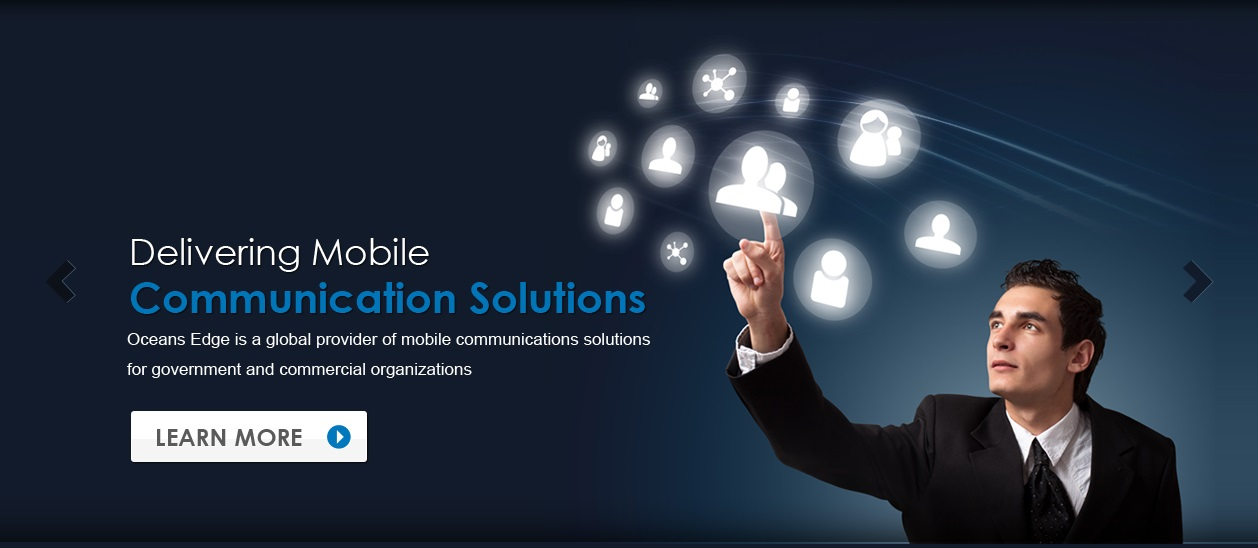
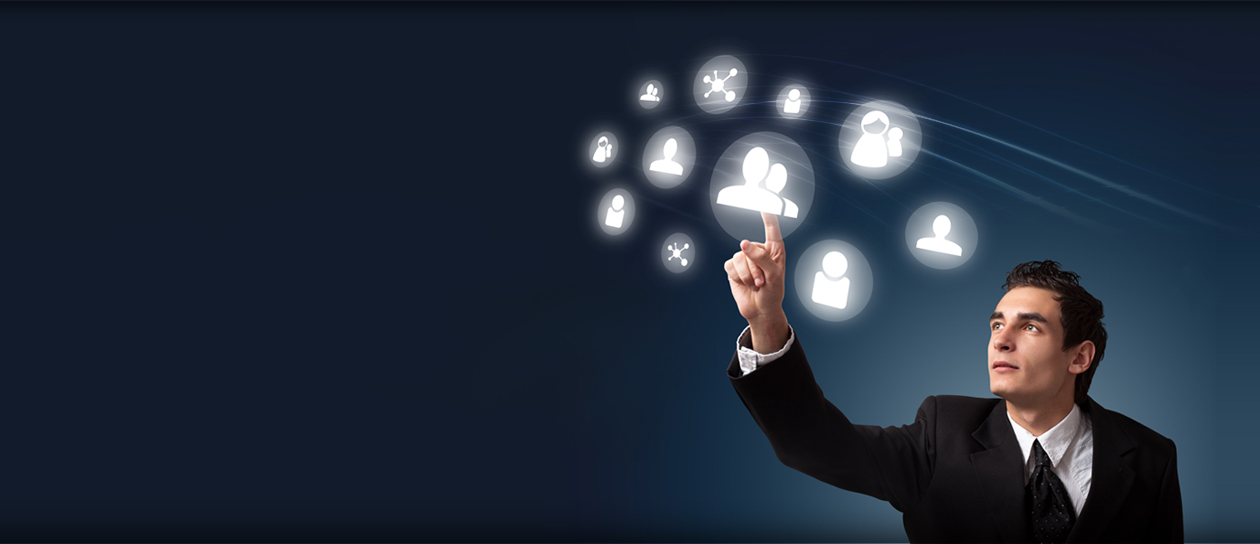
Add files via upload

diff --git a/css/style.css b/css/style.css
@@ -1,31 +1,31 @@
-body{
-	margin:0;
-	padding:0;
-	background-color:#121B2A;
-}
 /*Header start*/
 header{
-	width:95%;
+	background-color:#121B2A;
+}
+.container{
+	width:90%;
 	overflow:hidden;
 	margin:0 auto;
-	padding:10px;
+	padding-top:10px;
+	padding-bottom:10px;
 }
 .logo{
 	width:15%;
 	float:left;
-	margin-left:20px;
+	margin-left:10px;
+	overflow:hidden;
 }
 .logo img{
 	width:100%;
 }
 .menu{
-	width:70%;
+	width:75%;
 	float:right;
 	margin-top:40px;
 }
 .menu ul{
 	overflow:hidden;
-	float:right;
+	float: right;
 }
 .menu ul li{
 	list-style:none;
@@ -45,7 +45,175 @@ header{
 }
 /*header end*/
 /*banner start*/
-.banner img{
-	width:100%;
+.banner{
+	background-image:url(../image/banner.jpg);
+	background-repeat:no-repeat;
+	background-size:cover;
+	overflow:hidden;
+}
+.content{
+	width: 40%;
+	margin: 200px 100px 100px;
+}
+.content h2{
+	font-family:sans-serif;
+	font-size:42px;
+	font-weight:300;
+	color:white;
+	margin:4px 0px;
+}
+.content h3{
+	font-family:sans-serif;
+	font-size:42px;
+	color:#0177BD;
+	margin:5px 0px;
+}
+.content p{
+	font-family:sans-serif;
+	color:white;
+	margin:5px 0px;
+}
+.content button{
+	font-family:sans-serif;
+	font-size:20px;
+	color:#5A5A5A;
+	background-color:white;
+	width:240px;
+	height:45px;
+	margin:30px 0px;
+	border-style: none;
+	border-radius:3px;
+	display:inline-block;
+	cursor:pointer;
+}
+.content button span{
+	background-color:#0177BD;
+	padding:5px;
+	border-radius:50%;
+	color:white;
+	margin-left:10px;
 }
 /*banner end*/
+/*service start*/
+.service{
+	background-color:#121B2C;
+}
+.wrapper{
+	width:80%;
+	margin:0 auto;
+	overflow:hidden;	
+	padding:30px 0px 30px;
+}
+.single{
+	width:27%;
+	float: left;
+	border-right:1px solid white;
+	padding:3%;
+}
+.single:last-child{
+	margin-right:0;
+	border-right:0;
+}
+.single img{
+	width:100%;
+}
+.single p{
+	font-family:sans-serif;
+	font-size:14px;
+	color:white;
+	margin:5px 0px;
+}
+/*service end*/
+/*article start*/
+.article{
+	background-color:#040811;
+}
+.address{
+	width:75%;
+	margin:0 auto;
+	overflow:hidden;	
+	padding:20px 0px 20px;
+}
+.single1{
+	font-family:sans-serif;
+	font-size:12px;
+	color:white;
+	width:27%;
+	float:left;
+	padding:3%
+}
+.single1 span{
+	color:#0177BD;
+}
+.single1:last-child{
+	margin-right:0;
+}
+.single1 img{
+	width:100%;
+}
+#talkbubble {
+    width:90%;
+    height:130px;
+    padding:10px;
+    background:#121B2C;
+    position:relative;
+    -moz-border-radius:10px;
+    -webkit-border-radius:10px;
+    border-radius:10px;
+}
+#talkbubble:before {
+    content:"";
+    position:absolute;
+    right: 12%;
+	bottom: -20px;
+	width: 0;
+	height: 0;
+	border-right: 0px solid transparent;
+	border-left: 50px solid #121B2C;
+	border-bottom: 20px solid transparent;
+}
+/*article end*/
+/*footer start*/
+footer{
+	background-color:#121B2C;
+}
+.container1{
+	width:70%;
+	overflow:hidden;
+	margin:0 auto;
+	padding:25px;
+}
+.menu1{
+	font-family:sans-serif;
+	font-size:12px;
+	color:white;
+	width:60%;
+	float: left;
+
+}
+.menu1 ul{
+	margin:0px;
+	padding:0px;
+}
+.menu1 ul li{
+	display:inline-block;
+}
+.menu1 ul li a{
+	color: white;
+	margin:14px;
+	text-decoration:none;
+}
+.menu1 ul li a:hover{
+	color:#0177BD;
+}
+.menu1 p{
+	margin:14px;
+}
+.logo1{
+	width:40%;
+	float: right;
+}
+.logo1 img{
+	width: 100%;
+}
+/*footer end*/

diff --git a/index.html b/index.html
@@ -8,6 +8,7 @@
 <body>
 <!--header start-->
 <header>
+	<div class="container">
 	<div class="logo">
 		<img src="image/logo.png">
 	</div>
@@ -20,12 +21,81 @@
 			<li><a href="#">Carrer</a></li>
 		</ul>
 	</div>
+	</div>
 </header>
 <!--header end-->
 <!--banner start-->
 <div class="banner">
-	<img src="image/banner.jpg">	
+	<div class="content">
+		<h2>Delivering Mobile</h2>
+		<h3>Comunication Solutions</h3>
+		<p>Oceans Edge is a global provider of mobile communications solutions for goverment and commercial organizations</p>
+		<button>LERN MORE<span>&#x25B7;</span></button>		
+	</div>
 </div>
 <!--banner end-->
+<!--service start-->
+<div class="service">
+	<div class="wrapper">
+	<div class="single">
+		<img src="image/w.png">
+		<p>Our term of industry experts provides a broad range of wireless expertise ranging in the areas of straregy, architecture, business models, development, implementation and operations</p>
+	</div>
+	<div class="single">
+		<img src="image/x.png">
+		<p>We develop customized content and provide a full range of existing mobile device content. We develop customized solutions and offer existing solutions to manage our customers' devices and data.</p>
+	</div>
+	<div class="single">
+		<img src="image/y.png">
+		<p>We develop customized security solutions and offer existing solutions that provide our customers with secure mobile communicationa, data integrity and speicilized secure data applications.</p>
+	</div>
+	</div>
+</div>
+<!--service end-->
+<!--article start-->
+<div class="article">
+	<div class="address">
+	<div class="single1">
+		<h2>Oceans <span>Edge Inc.</span></h2>
+		<br>1861 Wiehle Avenue, Suite #250
+		<br>Reston, VA 20190<br>
+		<br>Toll free +1 (703) 793.9217
+		<br>fax +1(703) 535-3321
+		<br><br>Email Information@oceansedge.biz<br>
+	</div>
+	<div class="single1">
+		<div class="talk" id="talkbubble">
+			<h2>Customer's <span>Testimonials</span></h2>
+			<p>I ask new customers who visit my bakery,
+			How did you hear about us? Almost all of them say they found us on the web. Of all the different methodsof advertising.</p>
+		</div>
+		<p><b>hoda Worku</b><br>www.cabooseBakery.com</p>	
+	</div>
+	<div class="single1">
+		<img src="image/mobile.jpg">
+	</div>
+	</div>
+</div>
+<!--article end-->
+<!--footer start-->
+<footer>
+	<div class="container1">
+	<div class="menu1">
+		<ul>
+			<li><a href="#">Home</a>|</li>
+			<li><a href="#">About Us</a>|</li>
+			<li><a href="#">Soluations</a>|</li>
+			<li><a href="#">Mobile Applications</a>|</li>
+			<li><a href="#">Careers</a>|</li>
+			<li><a href="#">Contact Us</a></li>
+		</ul>
+		<p>Copyright@2020. Oceans'Edge, Inc., All right reserved</p>
+	</div>
+	<div class="logo1">
+		<img src="image/logo1.jpg">
+	</div>
+	</div>
+</footer>
+<!--footer end-->
 </body>
 </html>
